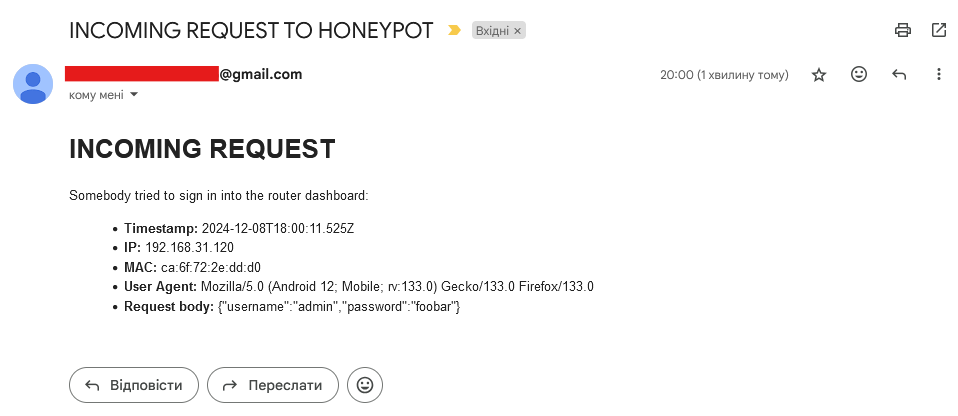
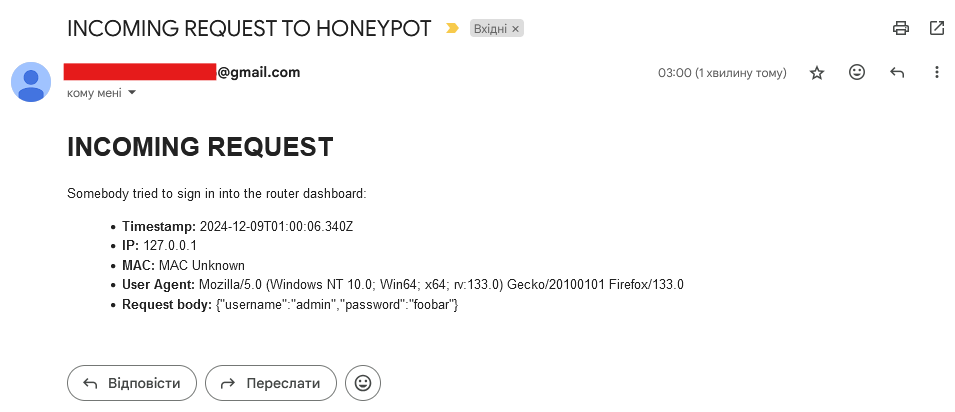
Implement better scan handling with timeout timer and minimum amount of ports to report about; Update README

diff --git a/index.js b/index.js
@@ -7,8 +7,8 @@ import 'dotenv/config';
 
 const loginLogFilename = 'logins.log';
 const scanLogFilename = 'scans.log';
-
-const portsToScan = [22, 23, 80, 443, 8080];
+const scanInactivityTimerMilliseconds = 5000;
+const scanMinPortsDetection = 3;
 
 const mailTransporter = nodemailer.createTransport({
 	service: 'gmail',
@@ -42,7 +42,7 @@ app.get('/', (request, response) => {
 app.post('/cgi-bin/luci/api/xqsystem/login', async (request, response) => {
 	const { ip, body, headers } = request;
 	const userAgent = headers['user-agent'];
-	const mac = await toMAC(ip);
+	const mac = await toMAC(ip) ?? 'MAC Unknown';
 	const timestamp = new Date().toISOString();
 
 	const logMessage = `${timestamp} INCOMING REQUEST: ${ip}; ${mac}; ${userAgent}; ${JSON.stringify(body)}`;
@@ -95,47 +95,91 @@ app.listen(
 //  Scan detection
 // ================
 
+const portsToScan = [...Array(1024).keys()].slice(1); // From 1 to 1023 (system ports)
+const scanData = new Map();
+
 portsToScan.forEach((port) => {
 	const server = net.createServer(async (client) => {
-		const { remoteAddress } = client;
-		const mac = await toMAC(remoteAddress);
-		const timestamp = new Date().toISOString();
-
-		const logMessage = `${timestamp} PING DETECTED ON PORT ${port}: ${remoteAddress}; ${mac}`;
-		console.log(logMessage);
-
-		try {
-			await appendFile(scanLogFilename, logMessage + '\n');
-		}
-		catch (error) {
-			console.log(`Logging to a file error: ${error}`);
-		}
-
-		mailTransporter.sendMail({
-			from: process.env.EMAIL_ADDRESS,
-			to: process.env.EMAIL_SEND_TO,
-			subject: 'SCAN DETECTED',
-			html: `<h1>SCANNING</h1>
-			<p>Somebody tried to scan the port ${port}:</p>
-			<ul>
-				<li><b>Timestamp:</b> ${timestamp}</li>
-				<li><b>IP:</b> ${remoteAddress}</li>
-				<li><b>MAC:</b> ${mac}</li>
-			</ul>`
-		}, (error, mail) => {
-			if (error) {
-				console.log(`Mail sending error: ${error}`);
-				return;
+		client.on('error', (error) => {
+			if (error.code === 'ECONNRESET') {
+				console.log(`Connection on port ${port} reset by ${client.remoteAddress}`);
 			}
-			console.log(`Email sent successfully: ${mail.response}`);
+			else {
+				console.error(`Socket error: ${error}`);
+			}
 		});
+
+		const { remoteAddress } = client;
+
+		if (!scanData.has(remoteAddress)) {
+			scanData.set(remoteAddress, {
+				ports: new Set(),
+				timer: null
+			});
+		}
+
+		const clientData = scanData.get(remoteAddress);
+		clientData.ports.add(port);
+
+		// Notify about scan only if client pings more then scanMinPortsDetection devices
+		// and after n seconds of inactivity
+
+		if (clientData.ports.size < scanMinPortsDetection) {
+			client.end();
+			return;
+		}
+
+		if (clientData.timer) {
+			clearTimeout(clientData.timer);
+		}
+
+		clientData.timer = setTimeout(async () => {
+			const mac = await toMAC(remoteAddress) ?? 'MAC Unknown';
+			const timestamp = new Date().toISOString();
+			const scannedPorts = [...clientData.ports].join(', ');
+
+			const logMessage = `${timestamp} SCAN DETECTED FROM ${remoteAddress} (${mac}) ON PORTS ${scannedPorts}`;
+			console.log(logMessage);
+
+			try {
+				await appendFile(scanLogFilename, logMessage + '\n');
+			}
+			catch (error) {
+				console.log(`Logging to a file error: ${error}`);
+			}
+
+			mailTransporter.sendMail({
+				from: process.env.EMAIL_ADDRESS,
+				to: process.env.EMAIL_SEND_TO,
+				subject: 'SCAN DETECTED',
+				html: `<h1>SCANNING</h1>
+				<p>Somebody tried to scan multiple ports:</p>
+				<ul>
+					<li><b>Timestamp:</b> ${timestamp}</li>
+					<li><b>IP:</b> ${remoteAddress}</li>
+					<li><b>MAC:</b> ${mac}</li>
+					<li><b>PORTS:</b> ${scannedPorts}</li>
+				</ul>`
+			}, (error, mail) => {
+				if (error) {
+					console.log(`Mail sending error: ${error}`);
+					return;
+				}
+				console.log(`Email sent successfully: ${mail.response}`);
+			});
+
+			scanData.delete(remoteAddress);
+		}, scanInactivityTimerMilliseconds);
+
+		client.end();
 	});
 
 	server.listen(
 		port,
-		'0.0.0.0',
-		() => console.log(`Listening for scans on port ${port}`)
+		'0.0.0.0'
 	).on('error', (error) => {
-		console.log(`Failed to listen to port ${port}: ${error}`);
+		console.log(`Failed to start listening for scans on port ${port}: ${error}`);
 	});
 });
+
+console.log(`Listening for scans on ports ${portsToScan[0]}-${portsToScan[portsToScan.length - 1]}`);

diff --git a/README.md b/README.md
@@ -4,7 +4,7 @@ Replicates the login page of the MiWi-Fi Router.
 
 On login requests, it always throws an invalid credentials error, sends an email notification, and logs client information into a file.
 
-Also, it checks some ports for scanning.
+Also, the program checks ports 1-1023 for scanning. If the client requests more than 3 ports in 5 seconds, it will be reported via email.
 
 ## Screenshots
 
@@ -20,7 +20,7 @@ Replicated page (look at the URL address):
 
 ### Attempt of login
 
-Console output after an attempt of sign in into the router dashboard:
+Log file output after an attempt of sign in into the router dashboard:
 
 ![Console](docs/http-request-log.png)
 
@@ -30,13 +30,13 @@ Email notification:
 
 ### Port scanning
 
-Console output after executing `curl http://localhost:8080` (MAC is null because the request is from the same device where the server is hosted):
+Log file output after executing `nmap -p 1-100`:
 
-![Ping console](docs/ping-log.png)
+![Scan log file](docs/scan-log.png)
 
 Email notification:
 
-![Email](docs/ping-email.png)
+![Scan email](docs/scan-email.png)
 
 ## Setup
 
